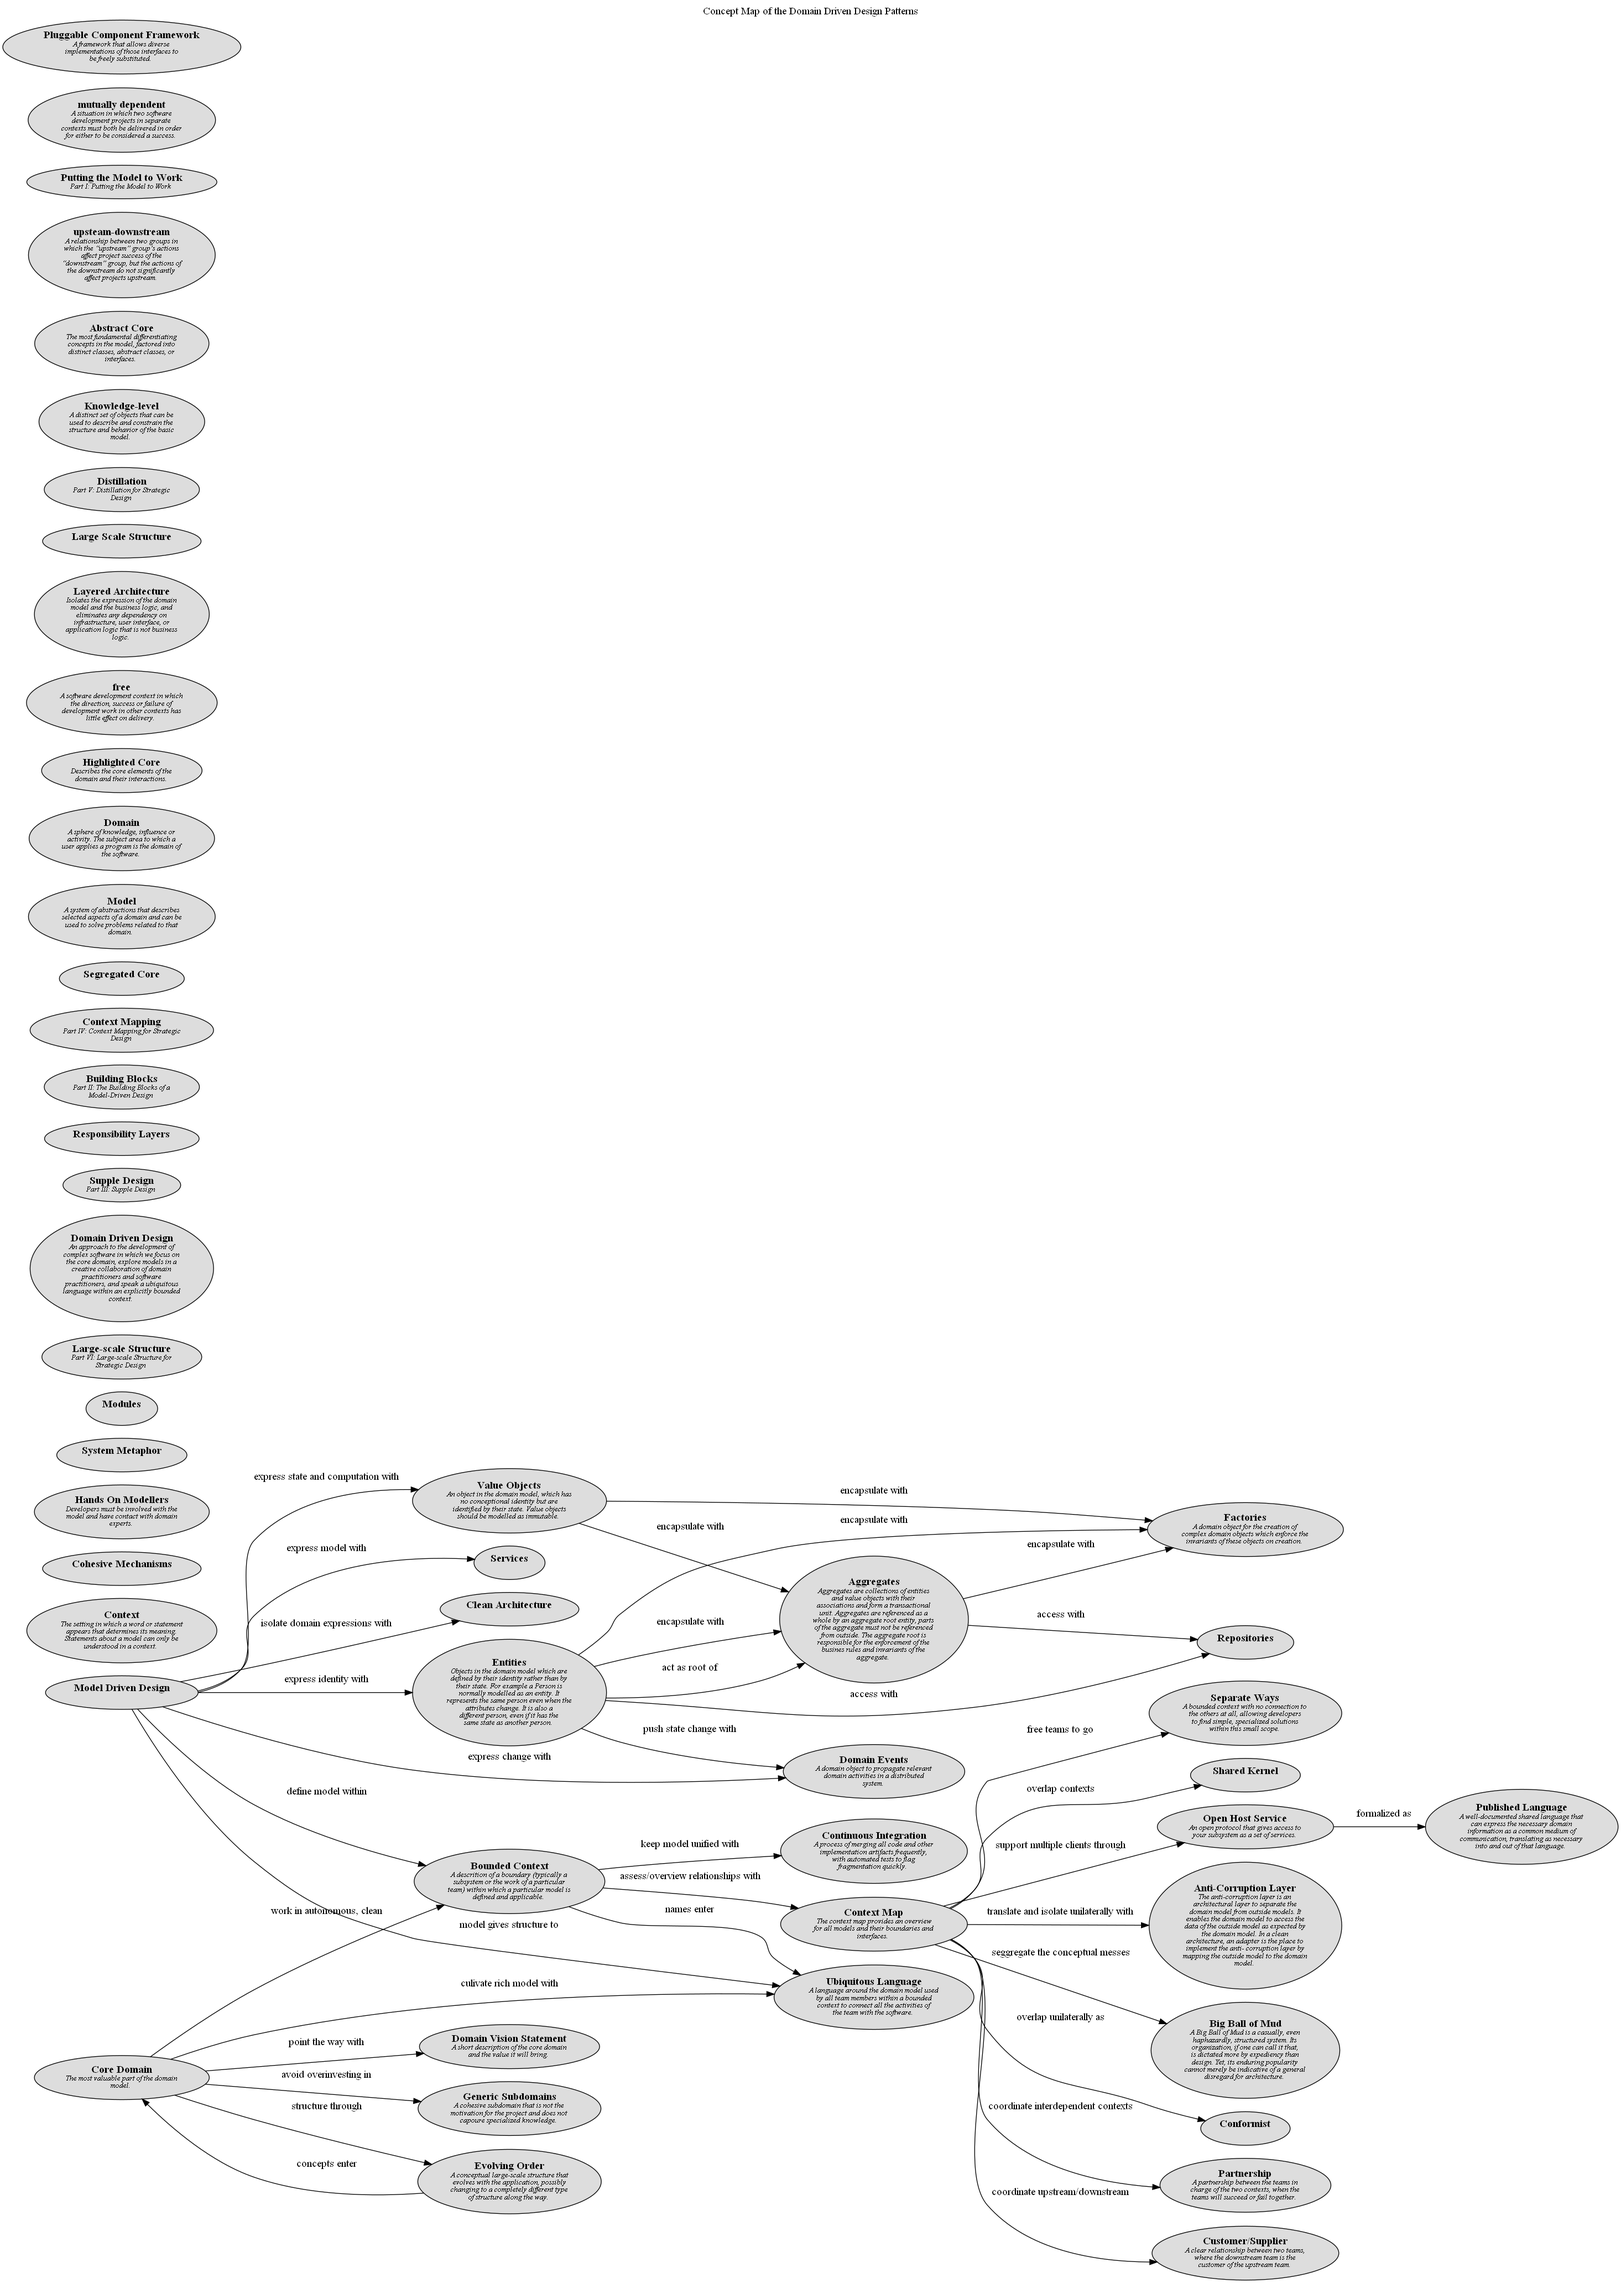
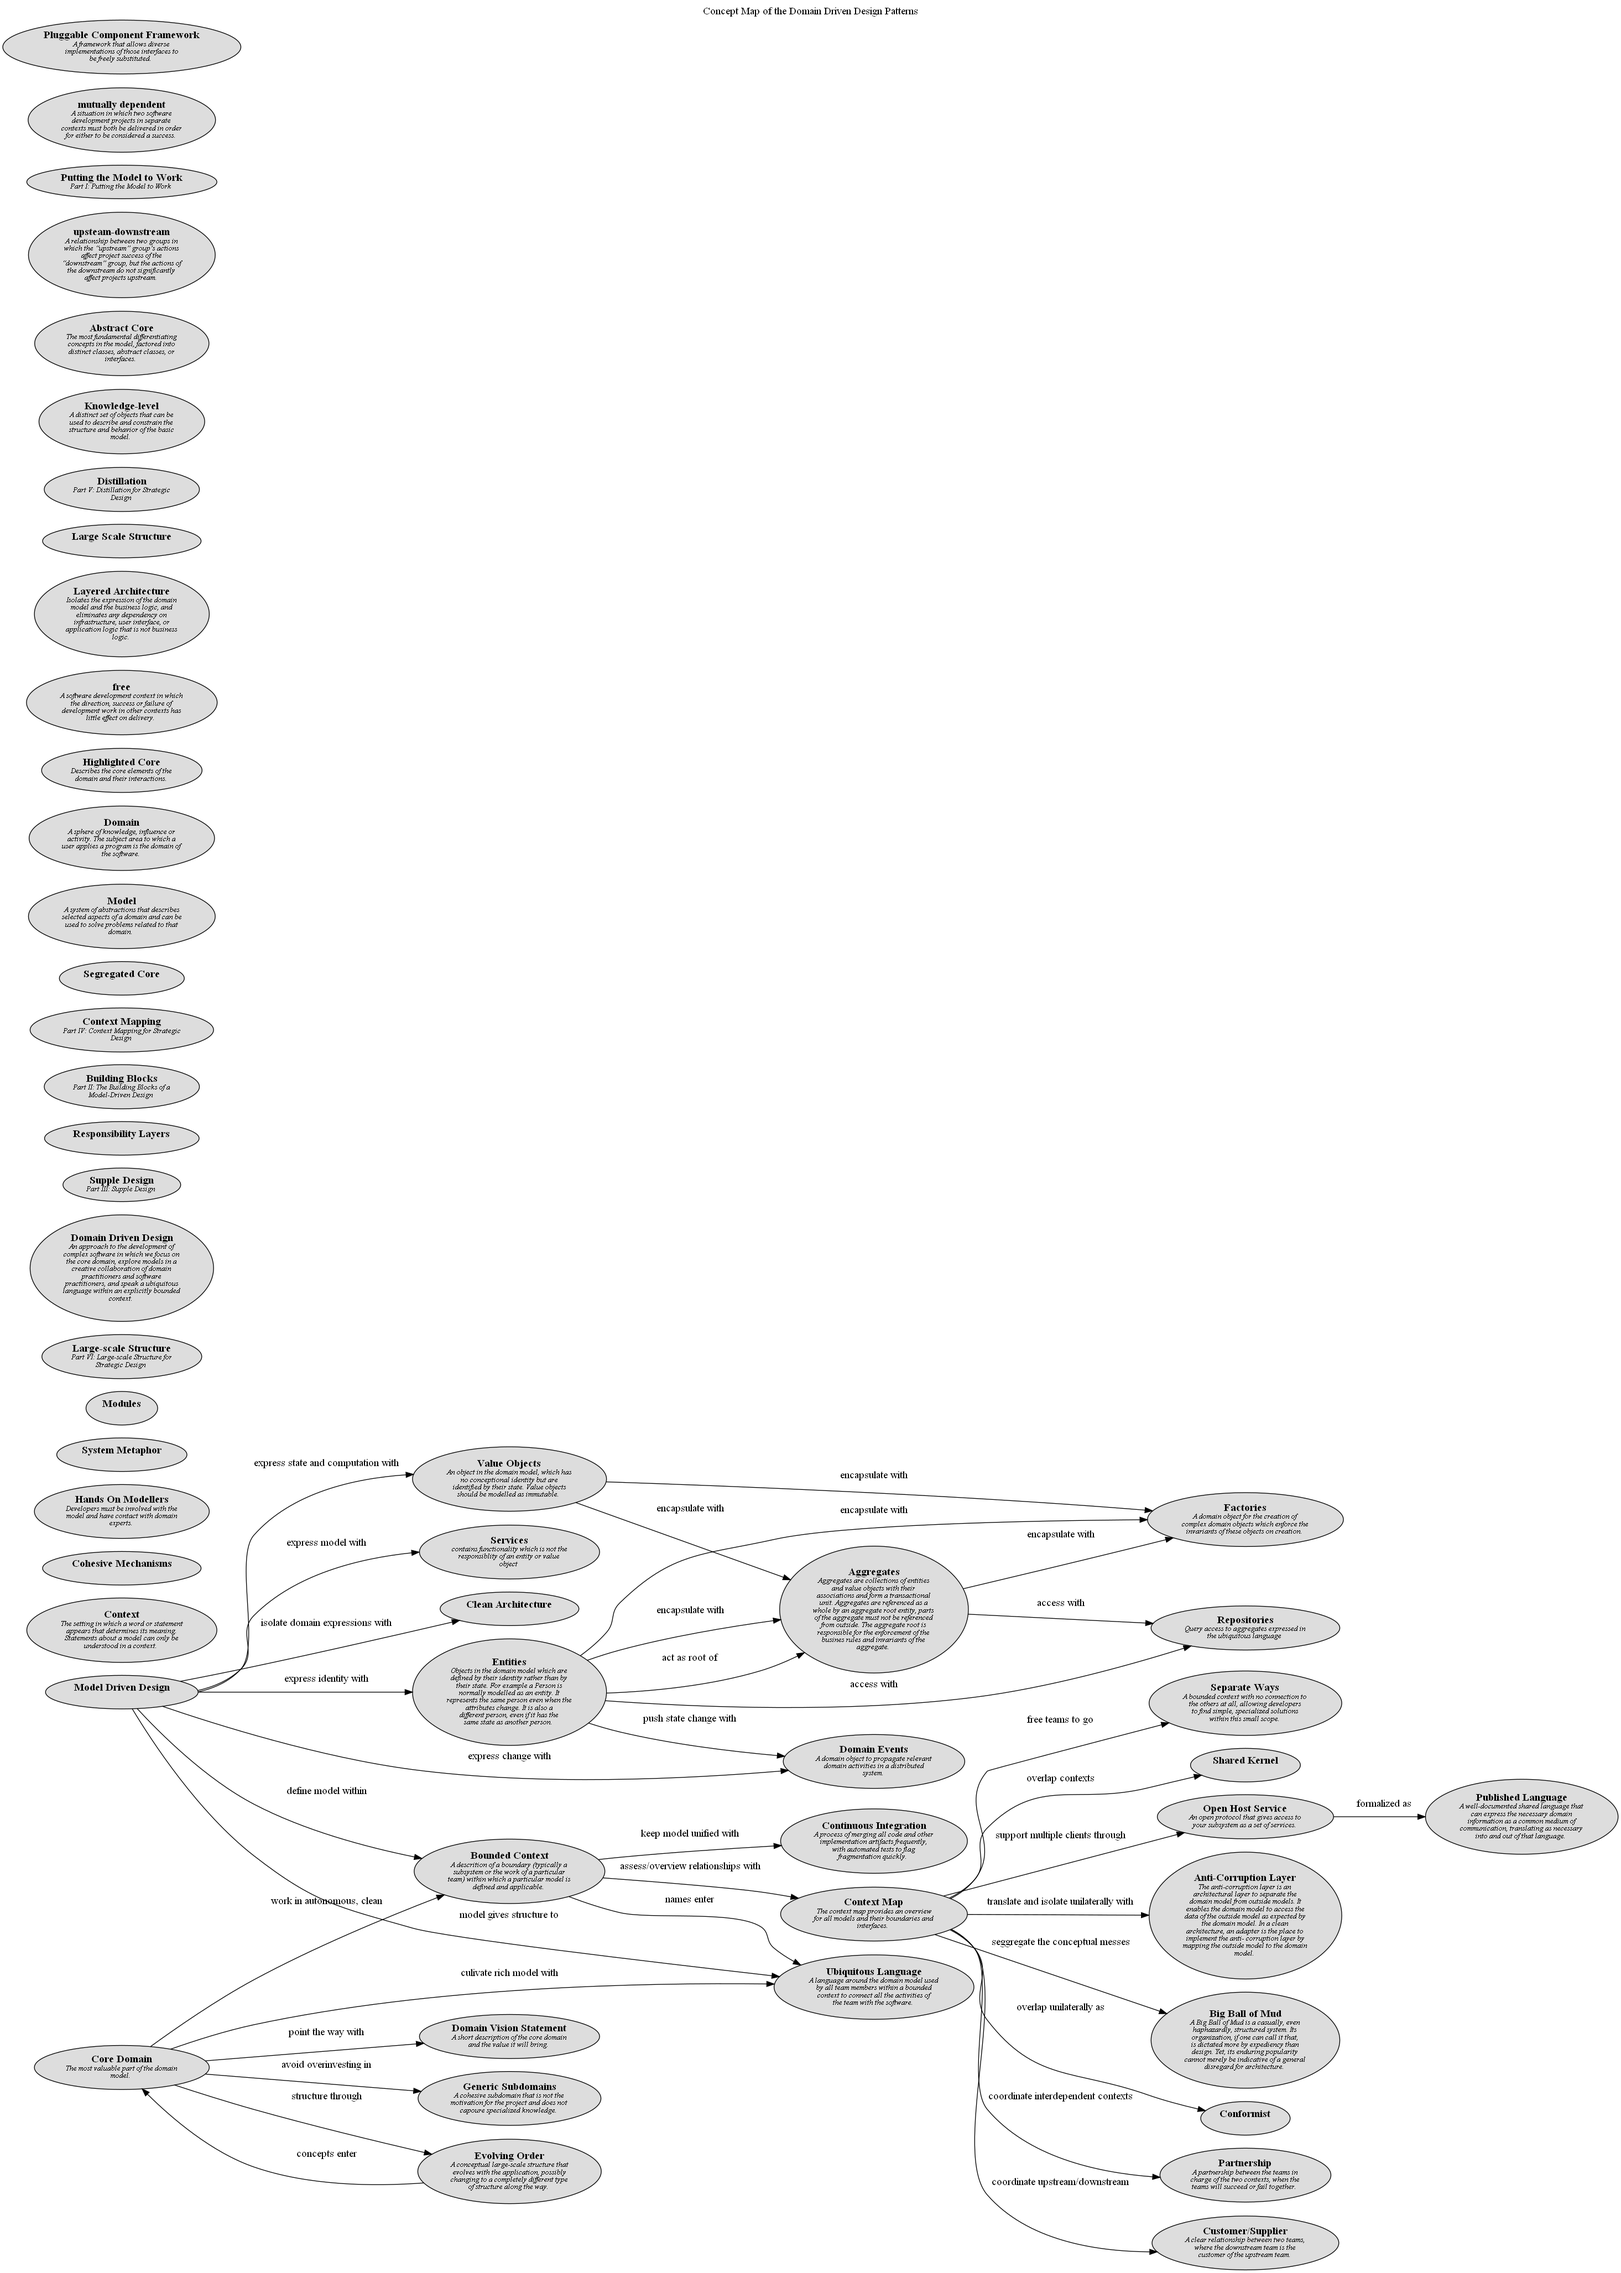
added description

diff --git a/docs/software-development/domain-driven-design/concept-view.md b/docs/software-development/domain-driven-design/concept-view.md
@@ -47,11 +47,11 @@ Shows the concepts of Domain Driven Design and their relationships.
 | [Pluggable Component Framework](../../software-development/domain-driven-design/large-scale-structure/c-pluggable-component-framework.md)| A framework that allows diverse implementations of those interfaces to be freely substituted. |
 | [Published Language](../../software-development/domain-driven-design/context-mapping/c-published-language.md)| A well-documented shared language that can express the necessary domain information as a common medium of communication, translating as necessary into and out of that language. |
 | [Putting the Model to Work](../../software-development/domain-driven-design/putting-the-model-to-work.md)| Part I: Putting the Model to Work |
-| [Repositories](../../software-development/domain-driven-design/building-blocks/c-repositories.md)|  |
+| [Repositories](../../software-development/domain-driven-design/building-blocks/c-repositories.md)| Query access to aggregates expressed in the ubiquitous language |
 | [Responsibility Layers](../../software-development/domain-driven-design/large-scale-structure/c-responsibility-layers.md)|  |
 | [Segregated Core](../../software-development/domain-driven-design/distillation/c-segregated-core.md)|  |
 | [Separate Ways](../../software-development/domain-driven-design/context-mapping/c-separate-ways.md)| A bounded context with no connection to the others at all, allowing developers to find simple, specialized solutions within this small scope. |
-| [Services](../../software-development/domain-driven-design/building-blocks/c-services.md)|  |
+| [Services](../../software-development/domain-driven-design/building-blocks/c-services.md)| contains functionality which is not the responsiblity of an entity or value object |
 | [Shared Kernel](../../software-development/domain-driven-design/context-mapping/c-shared-kernel.md)|  |
 | [Supple Design](../../software-development/domain-driven-design/supple-design.md)| Part III: Supple Design |
 | [System Metaphor](../../software-development/domain-driven-design/large-scale-structure/c-system-metaphor.md)|  |

diff --git a/docs/software-development/domain-driven-design/modelling/concept-view.md b/docs/software-development/domain-driven-design/modelling/concept-view.md
@@ -18,7 +18,7 @@ Shows the modelling patterns and their relationships.
 | [Entities](../../../software-development/domain-driven-design/building-blocks/c-entities.md)| Objects in the domain model which are defined by their identity rather than by their state. For example a Person is normally modelled as an entity. It represents the same person even when the attributes change. It is also a different person, even if it has the same state as another person. |
 | [Hands On Modellers](../../../software-development/domain-driven-design/modelling/c-hands-on-modellers.md)| Developers must be involved with the model and have contact with domain experts. |
 | [Model Driven Design](../../../software-development/domain-driven-design/modelling/c-model-driven-design.md)|  |
-| [Services](../../../software-development/domain-driven-design/building-blocks/c-services.md)|  |
+| [Services](../../../software-development/domain-driven-design/building-blocks/c-services.md)| contains functionality which is not the responsiblity of an entity or value object |
 | [Ubiquitous Language](../../../software-development/domain-driven-design/modelling/c-ubiquitous-language.md)| A language around the domain model used by all team members within a bounded context to connect all the activities of the team with the software. |
 | [Value Objects](../../../software-development/domain-driven-design/building-blocks/c-value-objects.md)| An object in the domain model, which has no conceptional identity but are identified by their state. Value objects should be modelled as immutable. |
 

diff --git a/docs/software-development/domain-driven-design/building-blocks/concept-view.md b/docs/software-development/domain-driven-design/building-blocks/concept-view.md
@@ -15,8 +15,8 @@ Shows the building block patterns and their relationships.
 | [Factories](../../../software-development/domain-driven-design/building-blocks/c-factories.md)| A domain object for the creation of complex domain objects which enforce the invariants of these objects on creation. |
 | [Model Driven Design](../../../software-development/domain-driven-design/modelling/c-model-driven-design.md)|  |
 | [Modules](../../../software-development/domain-driven-design/building-blocks/c-modules.md)|  |
-| [Repositories](../../../software-development/domain-driven-design/building-blocks/c-repositories.md)|  |
-| [Services](../../../software-development/domain-driven-design/building-blocks/c-services.md)|  |
+| [Repositories](../../../software-development/domain-driven-design/building-blocks/c-repositories.md)| Query access to aggregates expressed in the ubiquitous language |
+| [Services](../../../software-development/domain-driven-design/building-blocks/c-services.md)| contains functionality which is not the responsiblity of an entity or value object |
 | [Value Objects](../../../software-development/domain-driven-design/building-blocks/c-value-objects.md)| An object in the domain model, which has no conceptional identity but are identified by their state. Value objects should be modelled as immutable. |
 
 ## Other Relationships

diff --git a/docs/software-development/domain-driven-design/building-blocks/c-services.md b/docs/software-development/domain-driven-design/building-blocks/c-services.md
@@ -1,7 +1,7 @@
 
 # Services (Concept)
 ## Description
-
+contains functionality which is not the responsiblity of an entity or value object
 
 
 ## Tags

diff --git a/docs/software-development/domain-driven-design/building-blocks/c-repositories.md b/docs/software-development/domain-driven-design/building-blocks/c-repositories.md
@@ -1,7 +1,7 @@
 
 # Repositories (Concept)
 ## Description
-
+Query access to aggregates expressed in the ubiquitous language
 
 
 ## Tags
